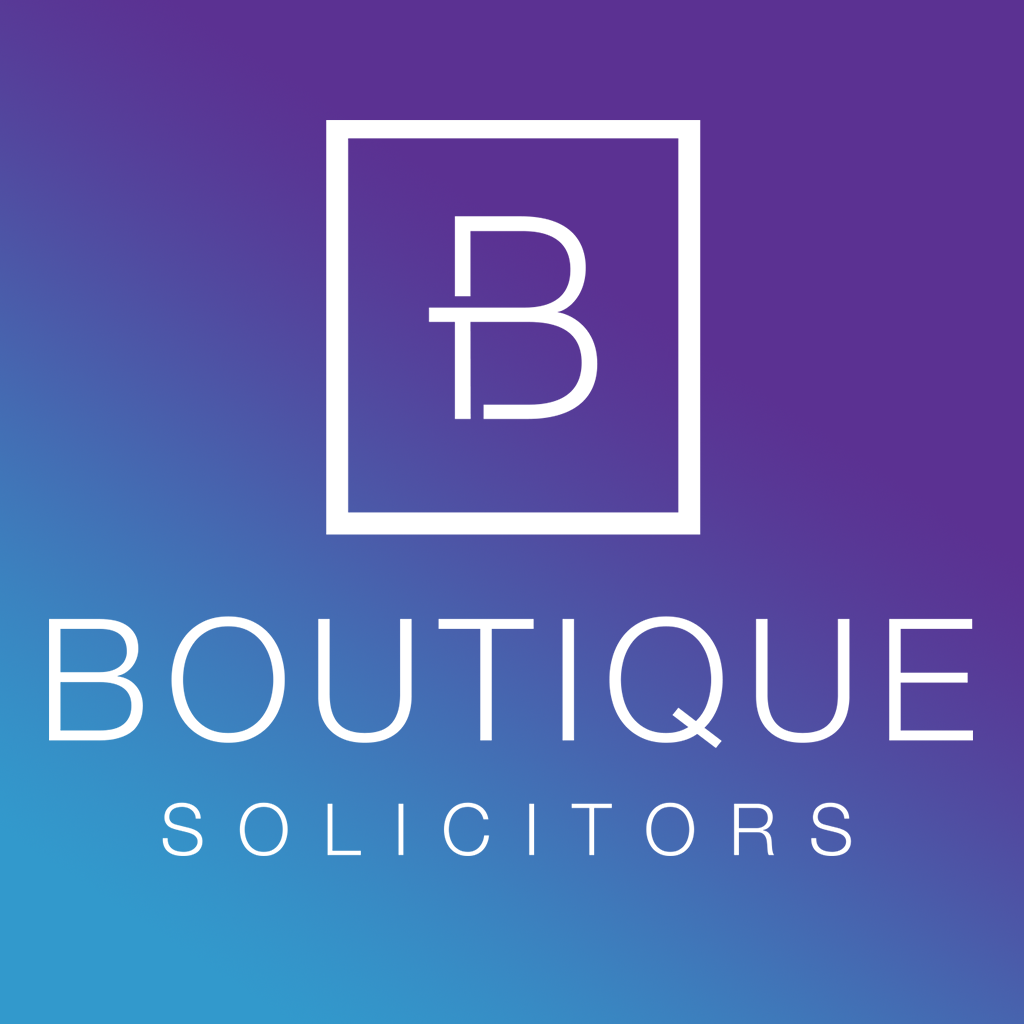
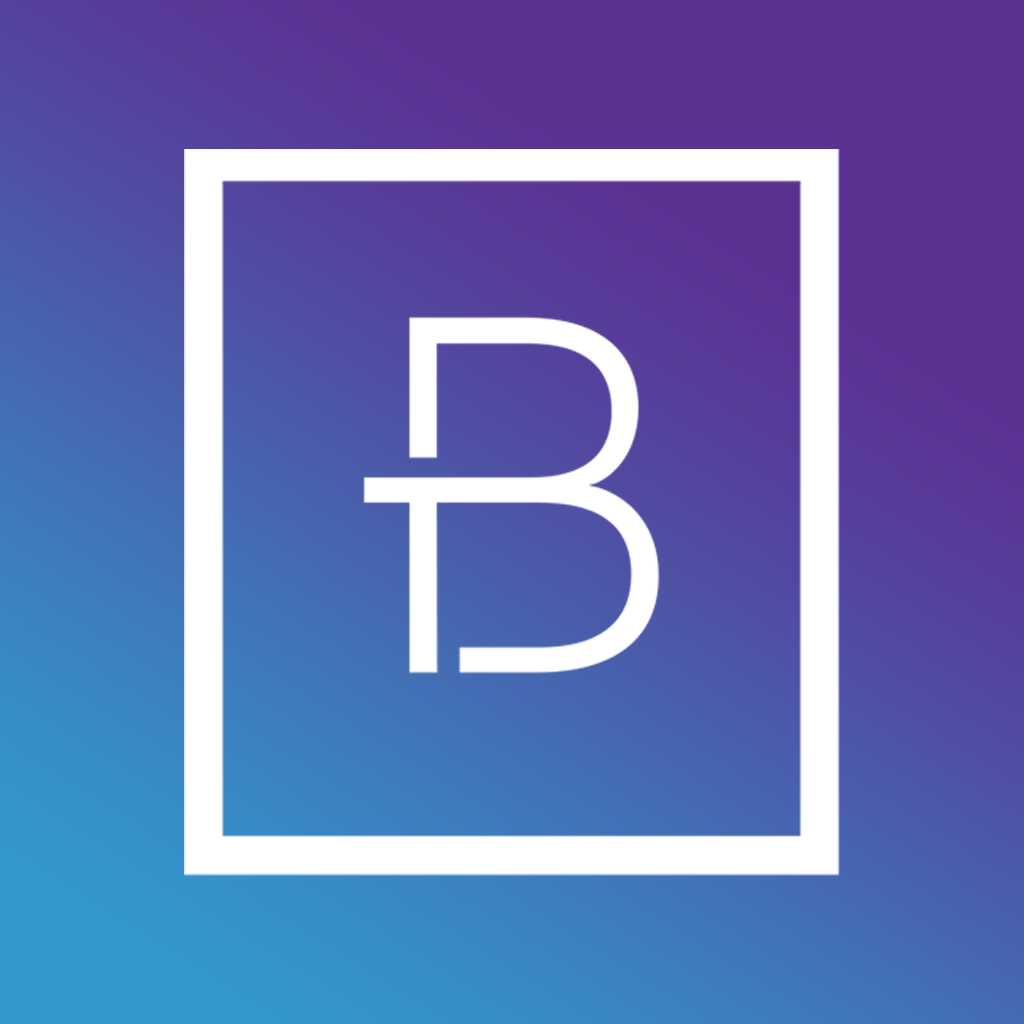
09/05/2019
Changed avatar, created front-end for 'Pay a Bill' page, created new app icon + general bug fixes

Changed region(s): [[0.0312, 0.0938, 0.9688, 0.875]]

diff --git a/src/app/members/bill/bill.page.html b/src/app/members/bill/bill.page.html
@@ -1,15 +1,61 @@
-<div class="nav-wrapper">
-    <ion-header class="navbar">
+ <ion-header class="navbar">
         <ion-buttons slot="end">
           <ion-button (click)="logout()">
-            <ion-icon slot="icon-only" color="white" name="log-out"></ion-icon>
+            <ion-icon slot="icon-only" name="log-out"></ion-icon>
           </ion-button>
         </ion-buttons>
         <ion-img src="assets/logo.png"></ion-img>
     </ion-header>
-      </div>
       
-<ion-content text-center>
-  <br>
-<ion-title>Pay a bill</ion-title>
+      
+<ion-content padding text-center>
+<h2>Pay a bill</h2>
+<br>
+<ion-label>Our safe and secure app payment service couldn't be easier.</ion-label>
+<br>
+<br>
+<div class="billing">
+  <ion-label>Title</ion-label>
+  <ion-select cancelText="Cancel" okText="Ok" placeholder="Please select...">
+    <ion-select-option value="Mr">Mr</ion-select-option>
+    <ion-select-option value="Mrs">Mrs</ion-select-option>
+    <ion-select-option value="Miss">Miss</ion-select-option>
+  </ion-select>
+<br>
+  <ion-label>First name</ion-label>
+  <ion-input></ion-input>
+
+<br>
+
+  <ion-label>Surname</ion-label>
+  <ion-input></ion-input>
+
+<br>
+
+  <ion-label>Postcode</ion-label>
+  <ion-input></ion-input>
+
+<br>
+
+  <ion-label>Email</ion-label>
+  <ion-input type="email"></ion-input>
+
+<br>
+
+  <ion-label>Telephone</ion-label>
+  <ion-input></ion-input>
+
+<br>
+  <ion-label>Account No.</ion-label>
+  <ion-input></ion-input>
+<br>
+  <ion-label>Invoice / Statement No.</ion-label>
+  <ion-input required></ion-input>
+<br>
+  <ion-label>How much would you like to pay?</ion-label>
+  <ion-input placeholder="£0.00"></ion-input>
+<br>
+</div>
+<ion-button>Make payment now</ion-button>
+
 </ion-content>

diff --git a/src/app/public/login/login.page.html b/src/app/public/login/login.page.html
@@ -28,14 +28,15 @@
           <br>
           <br>
           <br>
-            <div padding>
-            
-           <ion-button size="large" color="tertiary" (click)="login()" expand="block">Login</ion-button>
-           
+            <div text-center>           
+           <ion-button size="large" color="tertiary" (click)="login()" expand="block">Login</ion-button>          
           </div>
-
+          <!-- <div class="quickcontact">
+            <ion-label>Quick Contact:</ion-label>  
+            <ion-fab slot="end">         
+          <ion-fab-button size="small" color="tertiary" fill="outline"><ion-icon name="sunny"></ion-icon></ion-fab-button>
+         </ion-fab> </div> -->
           </ion-col>
         </ion-row>
       </ion-grid>
-
 </ion-content>

diff --git a/src/app/members/team/team.page.spec.ts b/src/app/members/team/team.page.spec.ts
@@ -1,0 +1,27 @@
+import { CUSTOM_ELEMENTS_SCHEMA } from '@angular/core';
+import { async, ComponentFixture, TestBed } from '@angular/core/testing';
+
+import { TeamPage } from './team.page';
+
+describe('TeamPage', () => {
+  let component: TeamPage;
+  let fixture: ComponentFixture<TeamPage>;
+
+  beforeEach(async(() => {
+    TestBed.configureTestingModule({
+      declarations: [ TeamPage ],
+      schemas: [CUSTOM_ELEMENTS_SCHEMA],
+    })
+    .compileComponents();
+  }));
+
+  beforeEach(() => {
+    fixture = TestBed.createComponent(TeamPage);
+    component = fixture.componentInstance;
+    fixture.detectChanges();
+  });
+
+  it('should create', () => {
+    expect(component).toBeTruthy();
+  });
+});

diff --git a/src/app/members/dashboard/dashboard.page.html b/src/app/members/dashboard/dashboard.page.html
@@ -1,20 +1,20 @@
 <div class="nav-wrapper" style="background: white;">
 <ion-header class="navbar">
- <!---<ion-toolbar> -->
+
     <ion-buttons slot="end">
       <ion-button (click)="logout()">
         <ion-icon slot="icon-only" color="white" name="log-out"></ion-icon>
       </ion-button>
     </ion-buttons>
     <ion-img src="assets/logo.png"></ion-img>
- <!-- </ion-toolbar> -->
+
  
 </ion-header>
  </div>
 <ion-content padding text-center>
   <div class="profile">
   <ion-avatar>
-<img src="assets/user.png">
+<img src="assets/man.jpg">
 </ion-avatar>
 <h1>Hello Richard,</h1>
 <ion-label>How can we help you today?</ion-label>

diff --git a/src/app/members/team/team.module.ts b/src/app/members/team/team.module.ts
@@ -1,0 +1,26 @@
+import { NgModule } from '@angular/core';
+import { CommonModule } from '@angular/common';
+import { FormsModule } from '@angular/forms';
+import { Routes, RouterModule } from '@angular/router';
+
+import { IonicModule } from '@ionic/angular';
+
+import { TeamPage } from './team.page';
+
+const routes: Routes = [
+  {
+    path: '',
+    component: TeamPage
+  }
+];
+
+@NgModule({
+  imports: [
+    CommonModule,
+    FormsModule,
+    IonicModule,
+    RouterModule.forChild(routes)
+  ],
+  declarations: [TeamPage]
+})
+export class TeamPageModule {}

diff --git a/src/app/members/member-routing.module.ts b/src/app/members/member-routing.module.ts
@@ -8,7 +8,8 @@ const routes: Routes = [
   { path: 'contact', loadChildren: './contact/contact.module#ContactPageModule' },
   { path: 'services', loadChildren: './services/services.module#ServicesPageModule' },
   { path: 'news', loadChildren: './news/news.module#NewsPageModule' },
-  { path: 'bill', loadChildren: './bill/bill.module#BillPageModule' }
+  { path: 'bill', loadChildren: './bill/bill.module#BillPageModule' },
+  { path: 'team', loadChildren: './team/team.module#TeamPageModule' }
 
     
   

diff --git a/src/app/members/bill/bill.page.scss b/src/app/members/bill/bill.page.scss
@@ -8,9 +8,30 @@
     filter: drop-shadow(0px 0px 10px rgba(0,0,0,0.3));
   }
   
+
+  ion-buttons {
+    position: absolute;
+  }
+
   ion-img {
     //  position: absolute;
       height: 12vh;
       width: 15vh;
       margin: 0 auto;
   }
+
+.billing {
+    text-align: left;
+    margin-left: 5%;
+    margin-right: 5%;
+  }
+
+.billing ion-input {
+    border: 1px solid #000;
+    
+}
+
+.billing ion-select {
+    border: 1px solid #000;
+    
+}

diff --git a/src/app/public/login/login.page.scss b/src/app/public/login/login.page.scss
@@ -76,3 +76,20 @@ ion-label {
 ion-item {
     --border-radius: 20px;
 }
+
+  .quickcontact {
+  text-align: right;
+  color: white;
+  margin-right: 20%;  
+}
+
+.quickcontact ion-fab-button {
+  color: white;
+  text-align: right;
+}
+
+.quickcontact ion-label {
+  color: white;
+  margin-top: 20px;
+}
+

diff --git a/src/app/members/team/team.page.ts b/src/app/members/team/team.page.ts
@@ -1,0 +1,15 @@
+import { Component, OnInit } from '@angular/core';
+
+@Component({
+  selector: 'app-team',
+  templateUrl: './team.page.html',
+  styleUrls: ['./team.page.scss'],
+})
+export class TeamPage implements OnInit {
+
+  constructor() { }
+
+  ngOnInit() {
+  }
+
+}

diff --git a/src/app/members/dashboard/dashboard.page.scss b/src/app/members/dashboard/dashboard.page.scss
@@ -8,8 +8,12 @@
   //   filter: drop-shadow(0px 0px 10px rgba(0,0,0,0.3));
   // }
 
+  ion-buttons {
+    position: absolute;
+  }
+
   ion-img {
-    //  position: absolute;
+      //position: absolute;
       height: 12vh;
       width: 15vh;
       margin: 0 auto;

diff --git a/src/app/members/contact/contact.page.scss b/src/app/members/contact/contact.page.scss
@@ -12,7 +12,11 @@
 //   .nav-wrapper {
 //     filter: drop-shadow(0px 0px 10px rgba(0,0,0,0.3));
 //   }
-  
+
+ion-buttons {
+    position: absolute;
+  }
+
   ion-img {
     //  position: absolute;
       height: 12vh;

diff --git a/src/app/members/about/about.page.scss b/src/app/members/about/about.page.scss
@@ -12,6 +12,10 @@
 //   .nav-wrapper {
 //     filter: drop-shadow(0px 0px 10px rgba(0,0,0,0.3));
 //   }
+
+ion-buttons {
+    position: absolute;
+  }
   
 .navbar ion-img {
     //  position: absolute;
